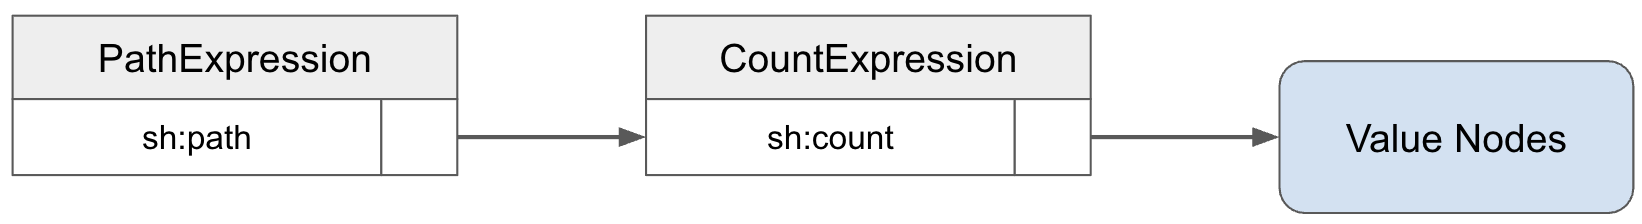
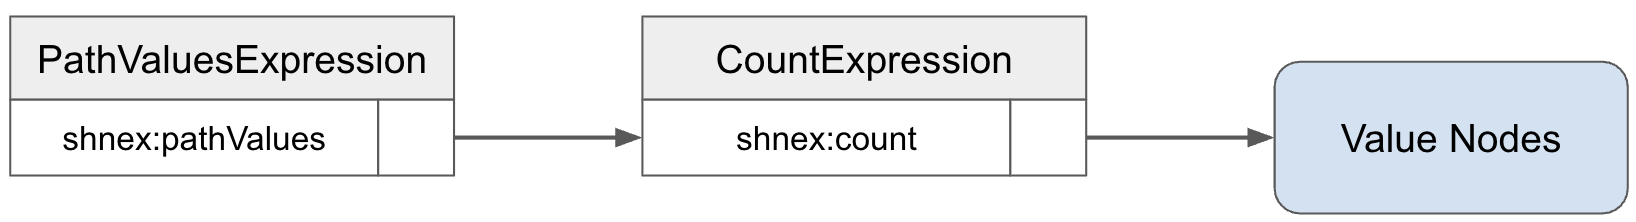
#490: Updated images, also clarified one TODO in the Getting Started section

diff --git a/shacl12-node-expr/index.html b/shacl12-node-expr/index.html
@@ -609,9 +609,9 @@ ex:EstonianCompanyShape
 			</p>
 			<div>
 				<img 
-				alt="Illustration of the data flow between node expressions"
-				src="images/FilterShapeExampleDiagram.png"
-				width="800px"
+					alt="Illustration of the data flow between node expressions"
+					src="images/FilterShapeExampleDiagram.png"
+					width="800px"
 				>
 			</div>
 			<p>
@@ -681,9 +681,9 @@ ex:Company-employeeCount
 			</p>
 			<div>
 				<img 
-				alt="Illustration of the data flow between node expressions computing the employee count"
-				src="images/CountExampleDiagram.png"
-				width="800px"
+					alt="Illustration of the data flow between node expressions computing the employee count"
+					src="images/CountExampleDiagram.png"
+					width="800px"
 				>
 			</div>
 			<p>
@@ -693,7 +693,13 @@ ex:Company-employeeCount
 				the currently displayed company is the <a>focus node</a>, for which the number of employees
 				will be fetched.
 			</p>
-			<p class="todo">Clarify when these derived properties can be used (e.g. in sh:path expressions but not as triples elsewhere)</p>
+			<p>
+				Note that these derived properties do not automatically lead to the creation of triples.
+				Tools that use these <code>sh:values</code> expressions typically compute the values on demand
+				only, for example whenever an instance of <code>ex:Company</code> is displayed or queried.
+				Some tools MAY however materialize the triples, for example so that they become available to
+				SPARQL queries.
+			</p>
 		</section>
 
 		<section id="syntax">
